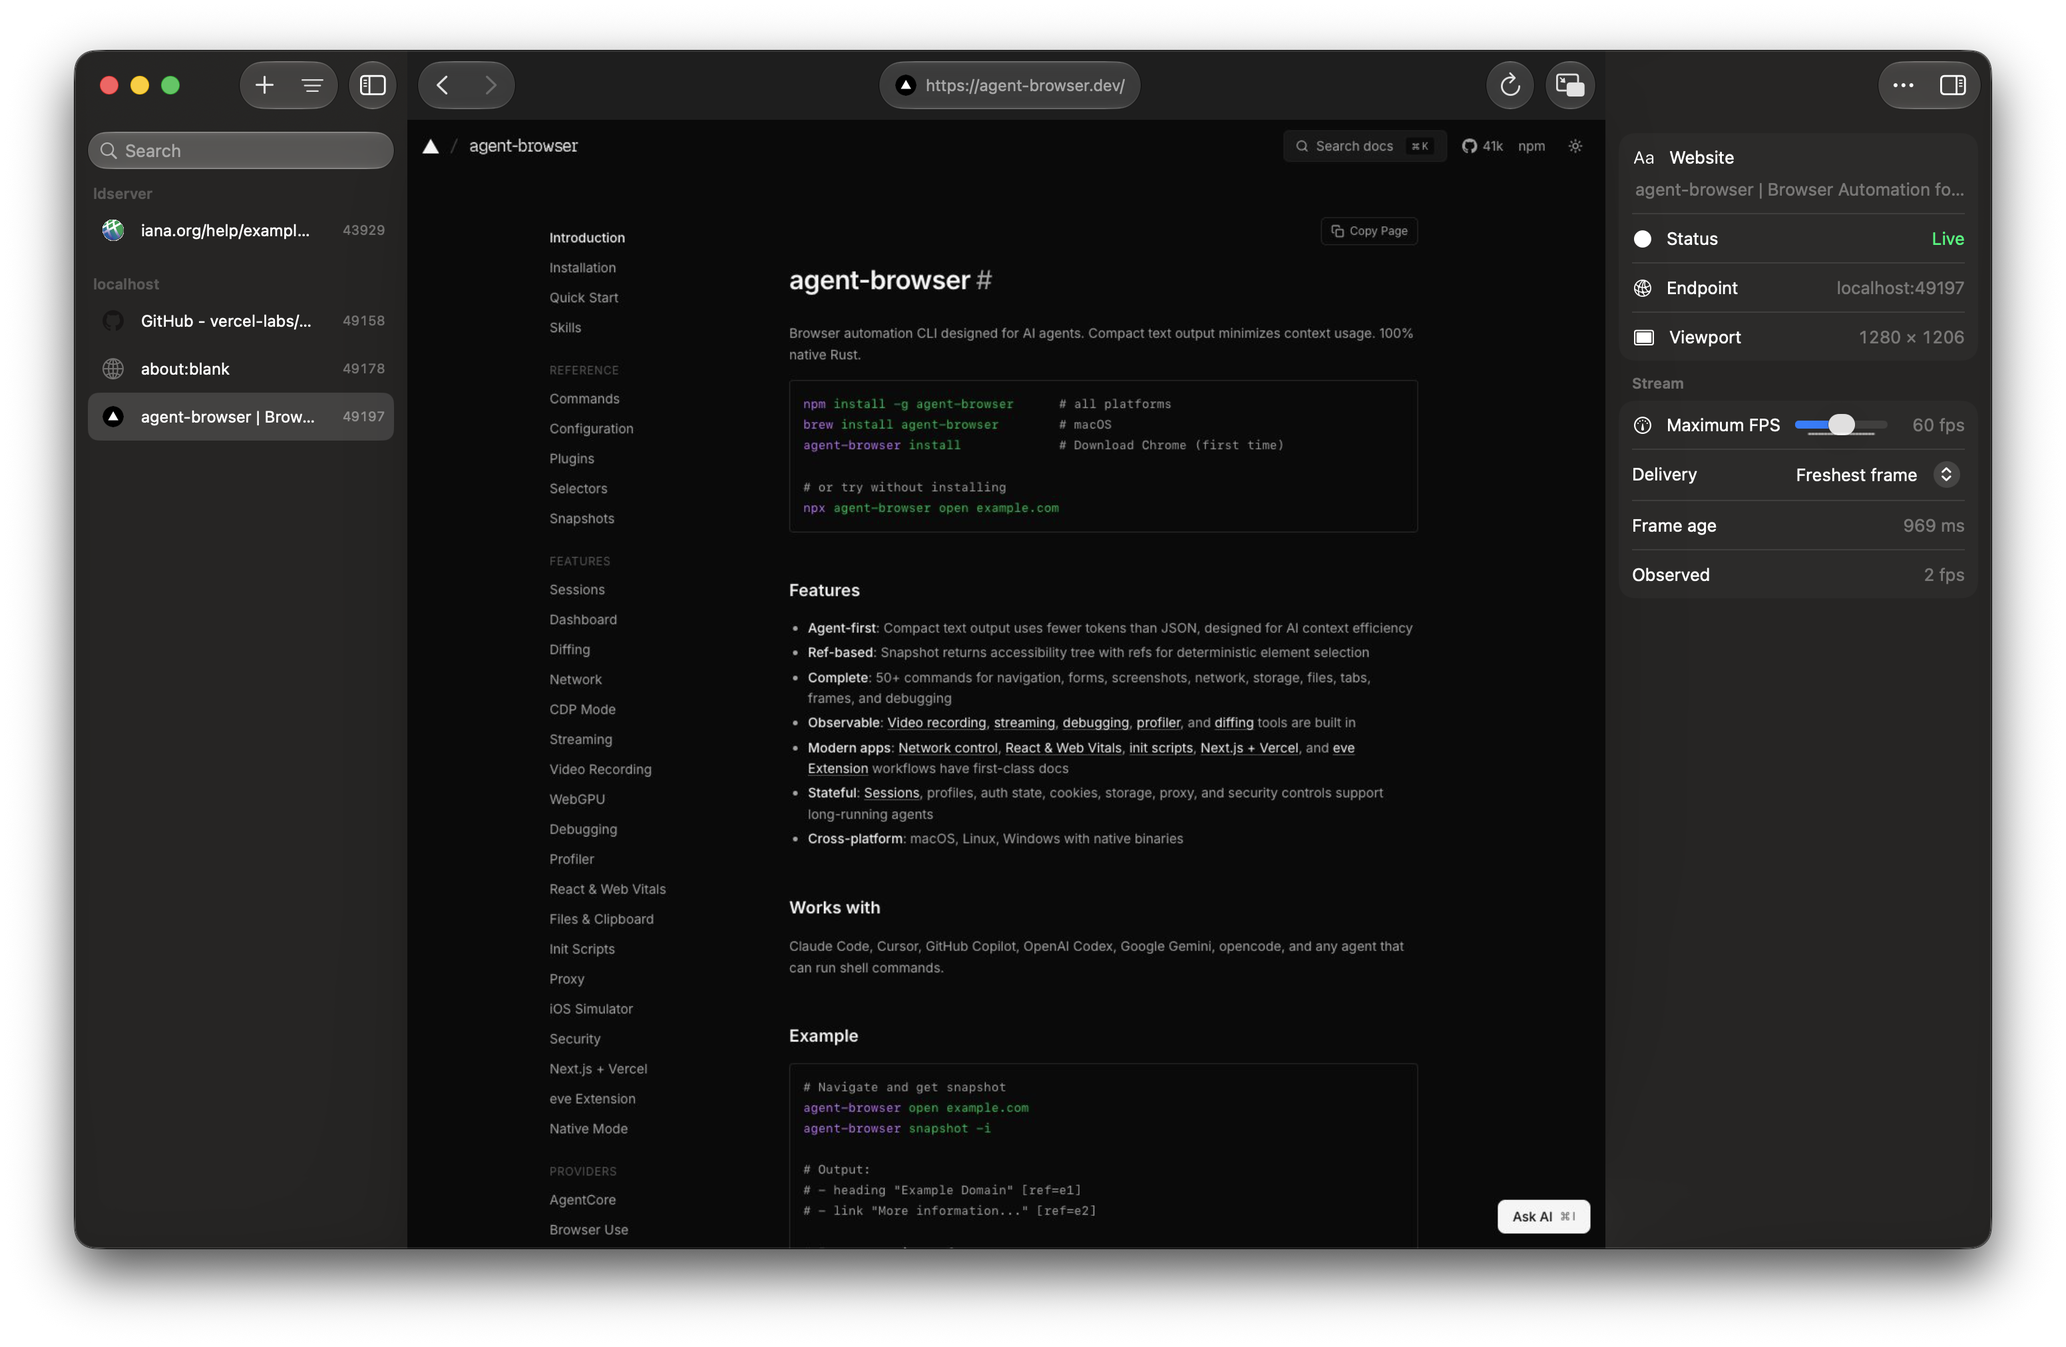
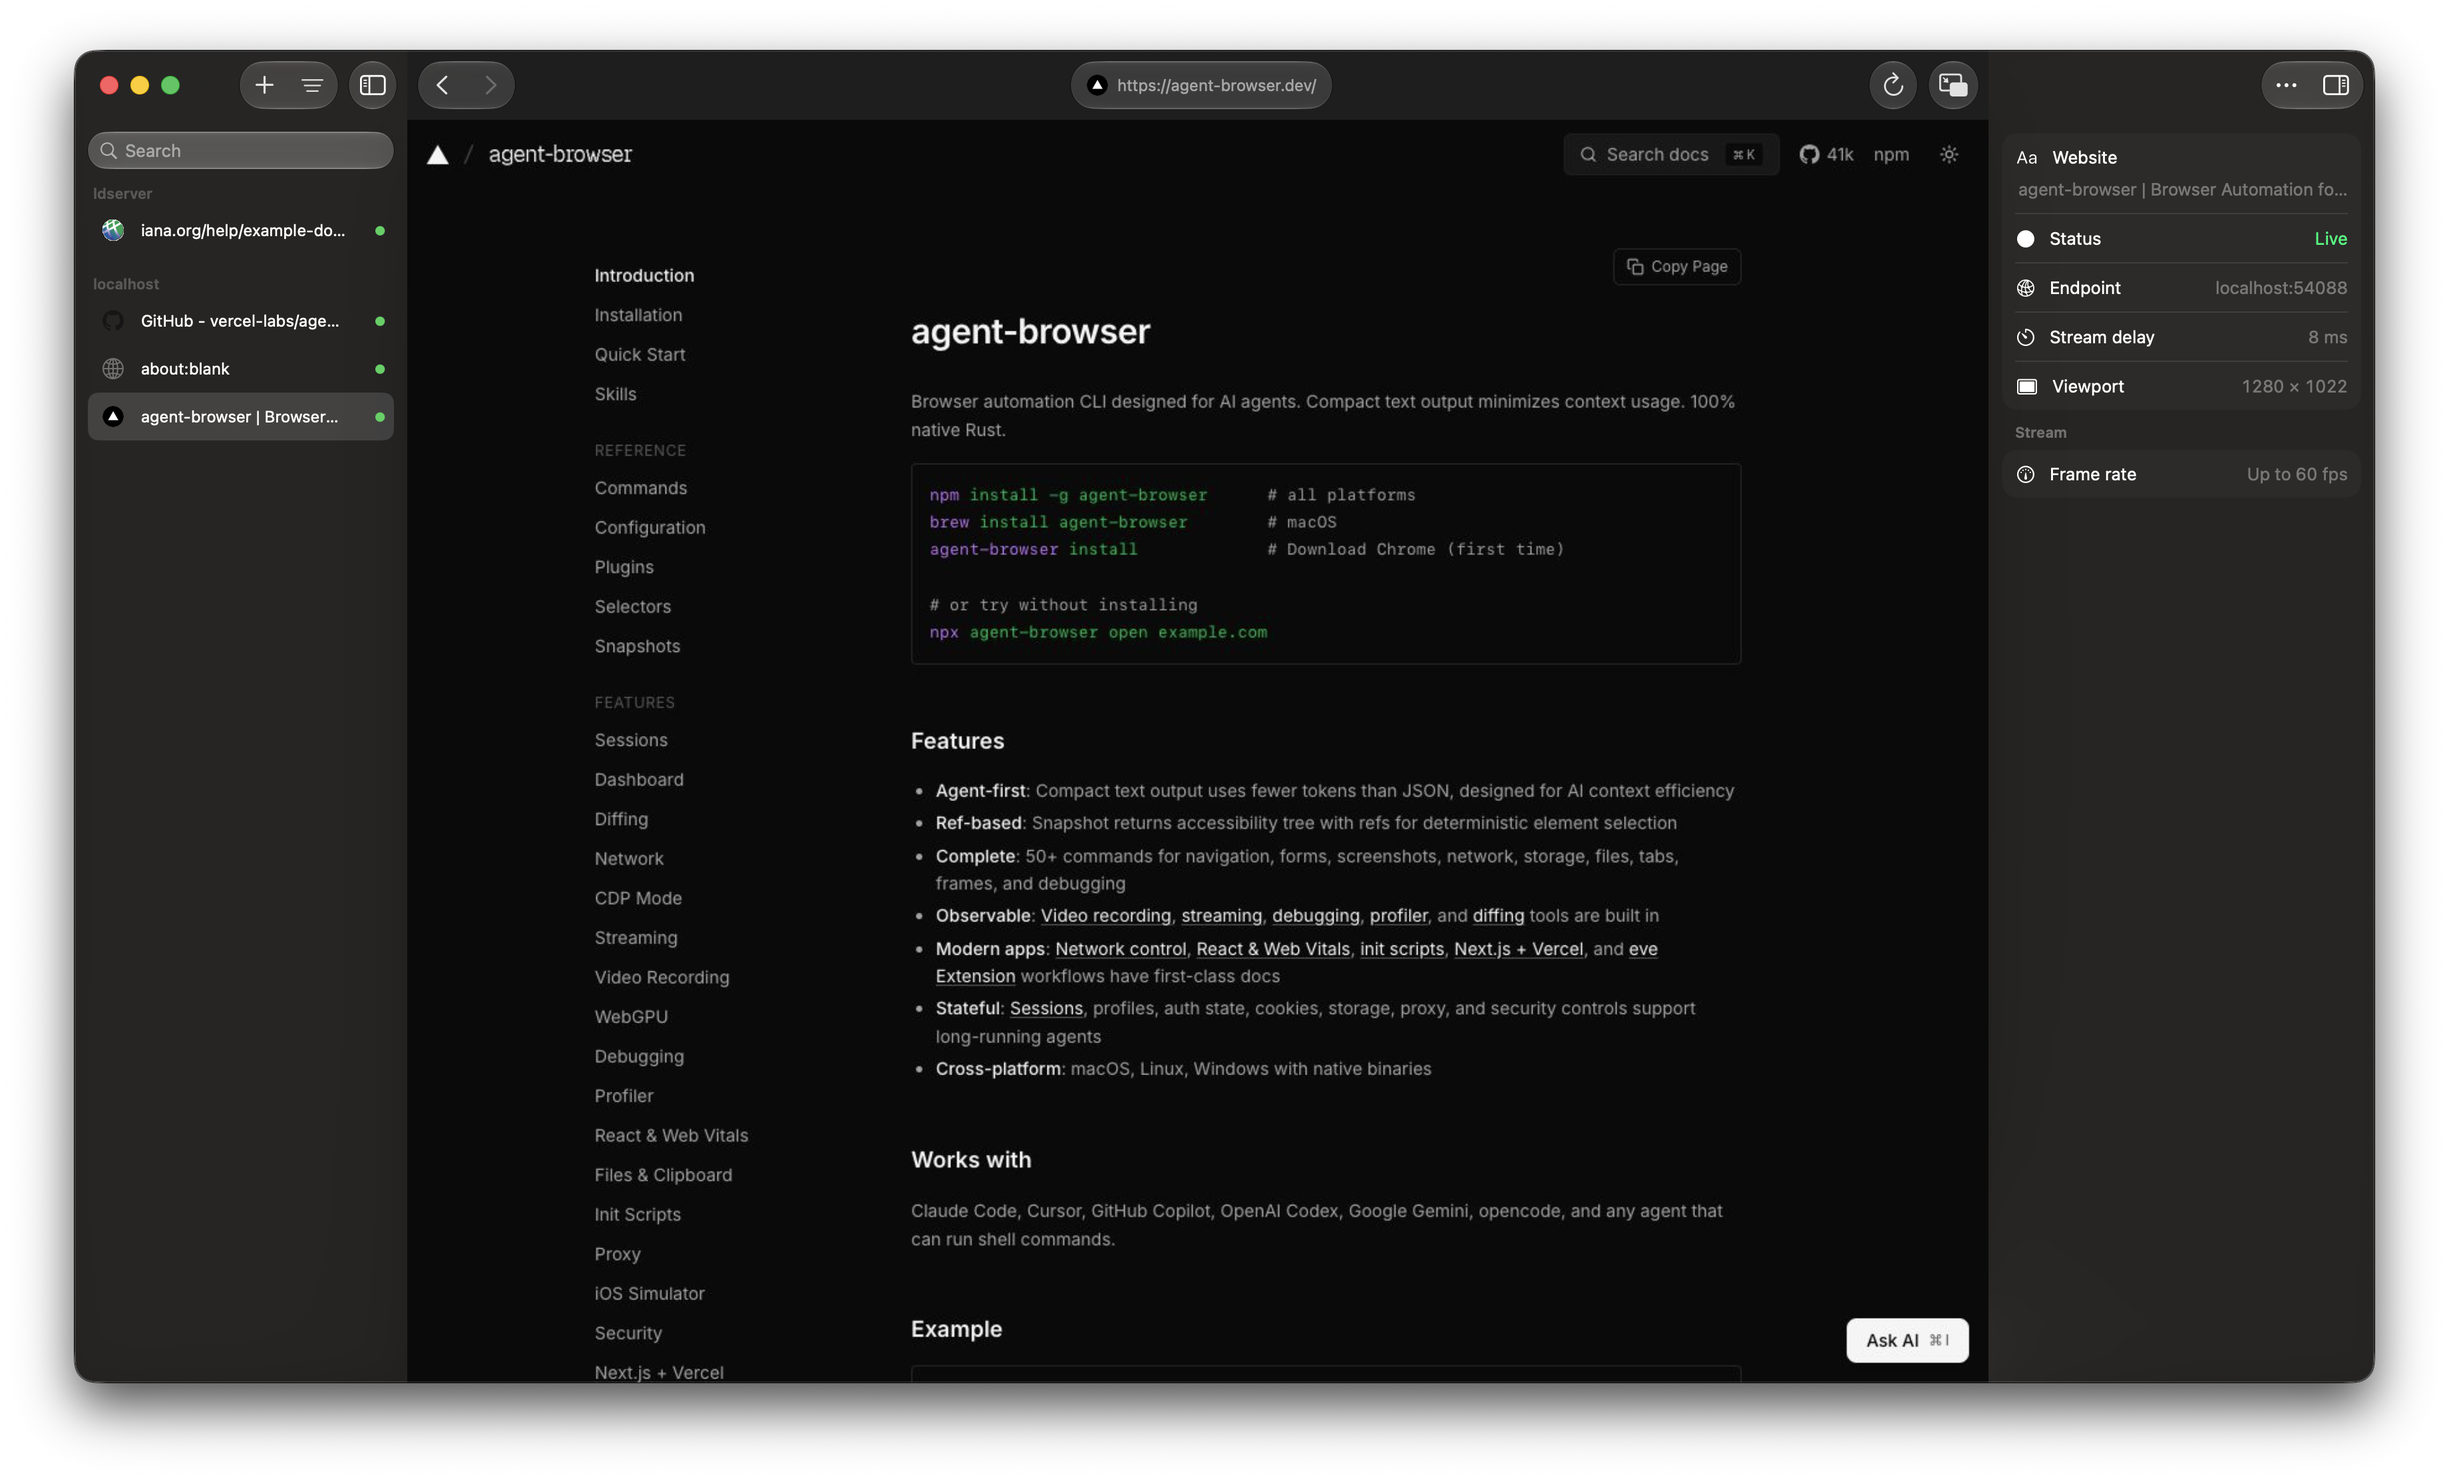
feat: refine stream interface

diff --git a/Sources/AgentBrowserCompanion/UI/BrowserInspector.swift b/Sources/AgentBrowserCompanion/UI/BrowserInspector.swift
@@ -95,9 +95,9 @@ private struct InspectorContent: View {
                     Text(latencyLabel)
                         .monospacedDigit()
                 } label: {
-                    Label("Latency", systemImage: "timer")
+                    Label("Stream delay", systemImage: "timer")
                 }
-                .help("WebSocket round-trip time to the Agent Browser stream.")
+                .help("WebSocket round-trip time, including queued preview data. This is not input response time.")
                 LabeledContent {
                     Text(viewportLabel)
                         .monospacedDigit()
@@ -106,37 +106,18 @@ private struct InspectorContent: View {
                 }
             }
 
-            Section("Stream") {
-                if client.supportsClientStreamConfiguration {
+            if client.supportsClientStreamConfiguration {
+                Section("Stream") {
                     LabeledContent {
-                        HStack(spacing: 10) {
-                            Slider(
-                                value: Binding(
-                                    get: { Double(workspace.preferredFPS) },
-                                    set: { workspace.preferredFPS = Int($0.rounded()) }
-                                ),
-                                in: 0...120,
-                                step: 1
-                            )
-                            Text(maximumRateLabel)
-                                .foregroundStyle(.secondary)
-                                .monospacedDigit()
-                                .frame(minWidth: 48, alignment: .trailing)
-                        }
+                        Text(frameRateSummaryLabel)
+                            .monospacedDigit()
                     } label: {
-                        Label("Maximum FPS", systemImage: "gauge.with.dots.needle.bottom.50percent")
+                        Label(
+                            "Frame rate",
+                            systemImage: "gauge.with.dots.needle.bottom.50percent"
+                        )
                     }
-                    Picker("Delivery", selection: $workspace.pacing) {
-                        ForEach(StreamPacing.allCases) { pacing in
-                            Text(pacing.label).tag(pacing)
-                        }
-                    }
-                }
-                if let age = client.frameAge {
-                    LabeledContent("Frame age", value: formatFrameAge(age))
-                }
-                if client.currentFrame != nil, client.isBrowserAvailable {
-                    LabeledContent("Observed", value: observedRateLabel)
+                    .help("The maximum preview frame rate selected in Settings.")
                 }
             }
         }
@@ -154,10 +135,6 @@ private struct InspectorContent: View {
         return milliseconds < 1 ? "<1 ms" : "\(Int(milliseconds.rounded())) ms"
     }
 
-    private func formatFrameAge(_ age: TimeInterval) -> String {
-        return age < 1 ? "\(Int(age * 1_000)) ms" : String(format: "%.1f s", age)
-    }
-
     private var statusColor: Color {
         switch client.connectionState {
         case .connected:
@@ -172,11 +149,9 @@ private struct InspectorContent: View {
         client.effectiveStatusLabel
     }
 
-    private var maximumRateLabel: String {
-        workspace.preferredFPS == 0 ? "Unlimited" : "\(workspace.preferredFPS) fps"
-    }
-
-    private var observedRateLabel: String {
-        client.framesPerSecond < 1 ? "Idle" : "\(Int(client.framesPerSecond)) fps"
+    private var frameRateSummaryLabel: String {
+        return workspace.preferredFPS == 0
+            ? "Unlimited"
+            : "Up to \(workspace.preferredFPS) fps"
     }
 }

diff --git a/Sources/AgentBrowserCompanion/UI/BrowserStage.swift b/Sources/AgentBrowserCompanion/UI/BrowserStage.swift
@@ -67,8 +67,9 @@ struct BrowserStage: View {
                                 .foregroundStyle(.secondary)
                                 .lineLimit(1)
                                 .truncationMode(.middle)
+                                .frame(maxWidth: 373)
                         }
-                        .frame(maxWidth: 420)
+                        .fixedSize(horizontal: true, vertical: false)
                         .padding(.horizontal, 12)
                         .help(pageURL.absoluteString)
                     }

diff --git a/Sources/AgentBrowserCompanion/UI/SettingsView.swift b/Sources/AgentBrowserCompanion/UI/SettingsView.swift
@@ -20,7 +20,7 @@ struct SettingsView: View {
             }
 
             Section {
-                Text("Acknowledgement pacing keeps at most one frame in flight, which prioritizes a fresh preview on remote links.")
+                Text("Acknowledgement delivery keeps at most one frame in flight and skips stale preview frames on remote links.")
                     .font(.caption)
                     .foregroundStyle(.secondary)
             }
